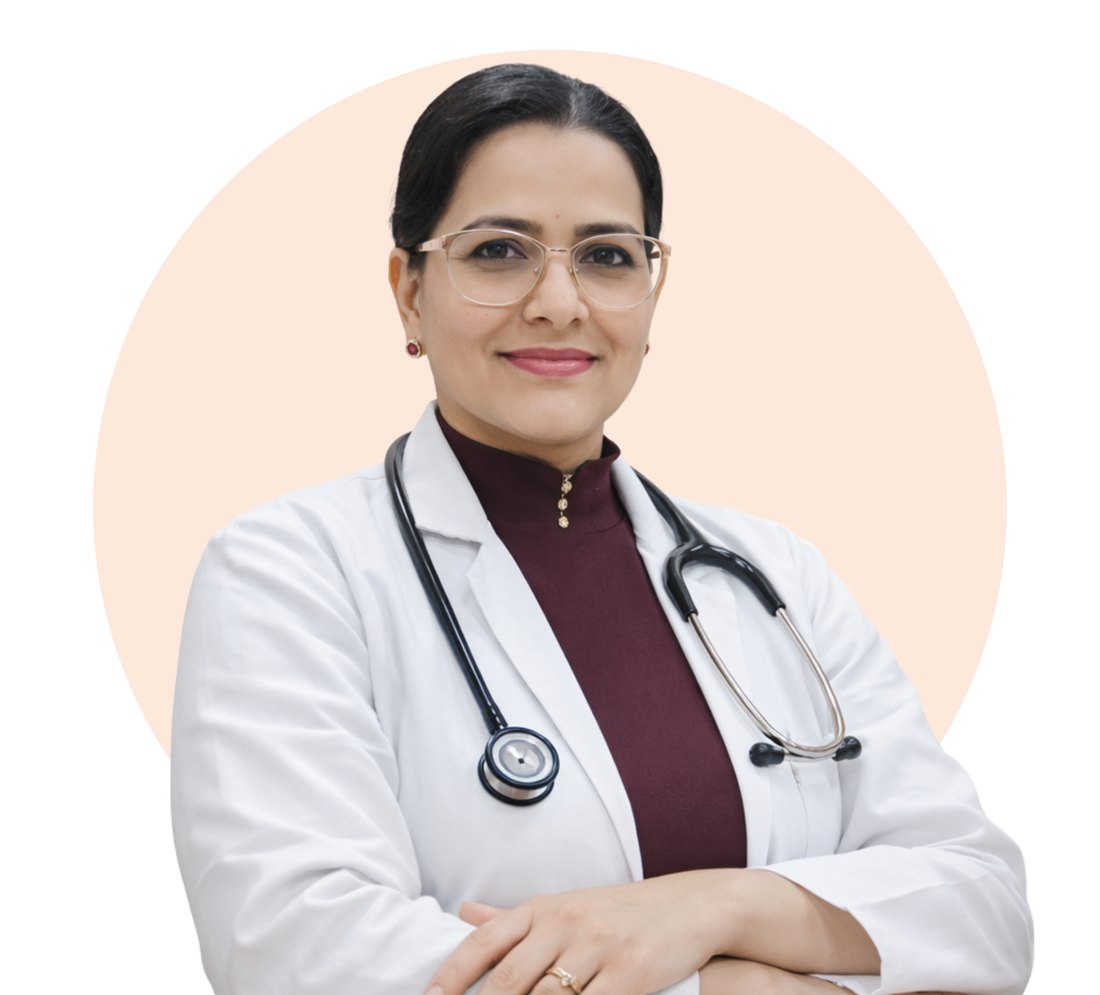
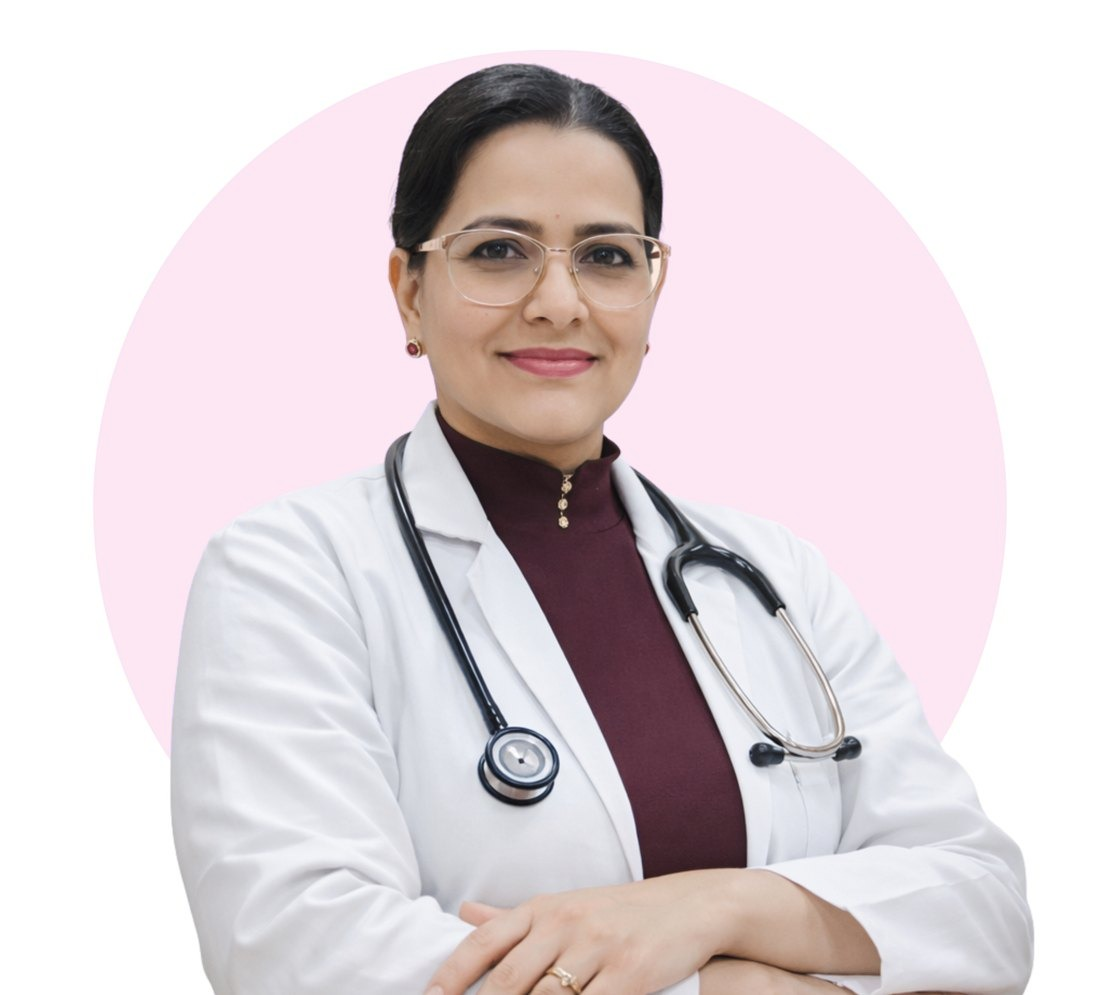
madhu

diff --git a/DrMadhuSaini/app/globals.css b/DrMadhuSaini/app/globals.css
@@ -1,15 +1,15 @@
 :root {
-  --primary: #155e66;
-  --primary-dark: #0d4248;
-  --primary-soft: #eaf5f4;
-  --teal: #c8641c;
-  --teal-dark: #a24f12;
-  --ink: #17211f;
-  --text: #4d5759;
-  --line: #e1e9e8;
-  --bg-alt: #f5f9f8;
+  --primary: #be185d;
+  --primary-dark: #9d174d;
+  --primary-soft: #fdf2f8;
+  --teal: #e11d48;
+  --teal-dark: #be123c;
+  --ink: #2b1420;
+  --text: #5c4a53;
+  --line: #f6dce7;
+  --bg-alt: #fff6fa;
   --radius: 18px;
-  --shadow: 0 10px 30px rgba(21, 94, 102, 0.1);
+  --shadow: 0 10px 30px rgba(190, 24, 93, 0.1);
   --header-h: 76px;
 }
 
@@ -282,7 +282,7 @@ h2 {
 }
 
 .hero {
-  background: #0d4248;
+  background: #831843;
 }
 
 /* Desktop: the photo fills the right side; the headline sits on solid teal on the left. */
@@ -300,7 +300,7 @@ h2 {
   content: "";
   position: absolute;
   inset: 0;
-  background: linear-gradient(90deg, #082c30 0%, #0d4248 40%, rgba(13, 66, 72, 0.55) 52%, rgba(13, 66, 72, 0) 72%);
+  background: linear-gradient(90deg, #500724 0%, #831843 40%, rgba(131, 24, 67, 0.55) 52%, rgba(131, 24, 67, 0) 72%);
 }
 
 .hero .container {
@@ -517,7 +517,7 @@ h2 {
   text-transform: uppercase;
   letter-spacing: 0.08em;
   color: var(--teal-dark);
-  background: #fdf1e6;
+  background: #ffe4e6;
   padding: 4px 10px;
   border-radius: 999px;
 }
@@ -542,7 +542,7 @@ h2 {
   position: fixed;
   inset: 0;
   z-index: 100;
-  background: rgba(4, 22, 24, 0.6);
+  background: rgba(42, 6, 22, 0.6);
   display: grid;
   place-items: center;
   padding: 20px;
@@ -934,7 +934,7 @@ h2 {
   font-weight: 500;
   text-align: left;
   color: #fff;
-  background: linear-gradient(180deg, rgba(8, 44, 48, 0) 0%, rgba(8, 44, 48, 0.85) 100%);
+  background: linear-gradient(180deg, rgba(80, 7, 36, 0) 0%, rgba(80, 7, 36, 0.85) 100%);
 }
 
 .gallery-item img {
@@ -952,7 +952,7 @@ h2 {
   position: fixed;
   inset: 0;
   z-index: 110;
-  background: rgba(3, 14, 16, 0.92);
+  background: rgba(28, 4, 15, 0.92);
   display: flex;
   align-items: center;
   justify-content: center;
@@ -1165,7 +1165,7 @@ h2 {
 }
 
 .form-success {
-  background: #fdf1e6;
+  background: #ffe4e6;
   color: var(--teal-dark);
   padding: 12px 16px;
   border-radius: 10px;
@@ -1188,7 +1188,7 @@ h2 {
 
 /* ---------- Footer ---------- */
 .footer {
-  background: #0a2a2e;
+  background: #3d0a20;
   color: rgba(255, 255, 255, 0.72);
   padding: 70px 0 0;
   font-size: 0.92rem;
@@ -1414,7 +1414,7 @@ h2 {
   }
 
   .hero::after {
-    background: linear-gradient(180deg, rgba(8, 44, 48, 0.78) 0%, rgba(8, 44, 48, 0.9) 100%);
+    background: linear-gradient(180deg, rgba(80, 7, 36, 0.78) 0%, rgba(80, 7, 36, 0.9) 100%);
   }
 
   .footer-grid {

diff --git a/DrMadhuSaini/data/content.ts b/DrMadhuSaini/data/content.ts
@@ -462,7 +462,7 @@ export const faqs: Faq[] = [
 export type GalleryImage = { src: string; alt: string };
 
 export const gallery: GalleryImage[] = [
-  { src: `${IMG}/ever-healthy-hospital.jpg`, alt: "Ever Healthy Hospital, Sector 16-17, Hisar" },
+  { src: `${IMG}/ever-healthy-hospital.jpg`, alt: "Ever Healthy Hospital, Sector 16-17, Hisar (architect's design)" },
   { src: `${IMG}/ever-healthy-team.jpg`, alt: "The Ever Healthy Hospital team" },
   { src: `${IMG}/dr-madhu-saini-opd.jpg`, alt: "Dr. Madhu Saini in her OPD" },
   { src: `${IMG}/dr-madhu-saini.jpg`, alt: "Dr. Madhu Saini, Sr. Consultant Physician & Diabetologist" },

diff --git a/DrMadhuSaini/components/Sections.tsx b/DrMadhuSaini/components/Sections.tsx
@@ -21,7 +21,7 @@ export function Hero() {
       <img className="hero-bg" src={site.heroImage} alt="" fetchPriority="high" />
       <div className="container">
         <div className="hero-content">
-          <span className="eyebrow" style={{ color: "#ffd2a8" }}>
+          <span className="eyebrow" style={{ color: "#fbcfe8" }}>
             {site.hospital} · Sector 16-17, {site.city}
           </span>
           <h1>

diff --git a/DrMadhuSaini/app/layout.tsx b/DrMadhuSaini/app/layout.tsx
@@ -21,7 +21,7 @@ export const metadata: Metadata = {
 };
 
 export const viewport: Viewport = {
-  themeColor: "#155e66",
+  themeColor: "#be185d",
 };
 
 export default function RootLayout({ children }: { children: React.ReactNode }) {

diff --git a/DrMadhuSaini/IMAGE-PROMPTS.md b/DrMadhuSaini/IMAGE-PROMPTS.md
@@ -8,10 +8,10 @@ All text lives in `data/content.ts`. All images live in `public/images/`.
 
 | File | What it is | Source |
 | --- | --- | --- |
-| `dr-madhu-saini-opd.jpg` | Hero: Dr. Saini at her OPD desk (1077 × 895) | Photo supplied by the doctor |
-| `dr-madhu-saini.jpg` | About section portrait | Ever Healthy Hospital website (About Us → team) |
-| `ever-healthy-hospital.jpg` | Hospital building (gallery) | Ever Healthy Hospital website (home page) |
-| `ever-healthy-team.jpg` | Hospital team (Why Choose + gallery) | Ever Healthy Hospital website (home / About Us) |
+| `dr-madhu-saini-opd.jpg` | Hero: Dr. Saini at her OPD desk (1077 × 895) | Photo supplied by the doctor. Not published anywhere online, so it couldn't be checked against a source |
+| `dr-madhu-saini.jpg` | About section portrait | Ever Healthy Hospital website (About Us, the photo above "Dr. Madhu Saini"). Backdrop circle recoloured from peach to pink to match the site theme |
+| `ever-healthy-hospital.jpg` | Hospital building (gallery) | Ever Healthy Hospital website (home page). It's an architect's rendering, so the caption says "(architect's design)". Backdrop circle recoloured to pink |
+| `ever-healthy-team.jpg` | Hospital team (Why Choose + gallery) | Ever Healthy Hospital website (home / About Us). Uploaded there in June 2025, before Dr. Saini's profile was added (Feb 2026), so she may not be in it |
 | `tip-1…6-*.svg` | Health-tip cards (illustrations) | Made for this site |
 | `logo.svg`, `app/icon.svg` | "MS" monogram logo and favicon | Made for this site |
 
@@ -21,14 +21,17 @@ The hospital photos are taken from everhealthyhospital.in. Get the hospital's pe
 
 1. **Higher-resolution hero photo** (at least 1600 px wide, landscape) of Dr. Saini in her OPD. Keep her on the **right half** of the frame because the headline covers the left half on desktop.
 2. **Real photos of the hospital interior**: reception, OPD room, laboratory, ICU/HDU. Add them to `gallery` in `data/content.ts` (4:3 landscape works best).
-3. **Real photo of the building.** The current image looks like an architect's rendering.
+3. **Real photo of the building.** The current image is an architect's rendering. When you swap in a real photo, remove "(architect's design)" from its caption in `data/content.ts`.
 
 Ground rules: use only real photos of Dr. Saini and the hospital. Don't use AI-generated faces or interiors, and don't use before/after patient photos.
 
 ## Content checklist (confirm with Dr. Saini before going live)
 
 - [ ] Is **+91 92530 61331** also on **WhatsApp**? (The site's WhatsApp button and enquiry form use it.)
+- [ ] Is the hero photo (`dr-madhu-saini-opd.jpg`, orange saree at the OPD desk) of her, and is she happy for it to be used?
+- [ ] Is she in the team photo (`ever-healthy-team.jpg`)? If not, consider a team photo that includes her for the Why Choose section.
 - [ ] Were MBBS **and** MD both done at PGIMS Rohtak? The site currently says "MBBS, MD (Medicine) – PGIMS Rohtak".
+- [ ] The hospital's About Us page lists her only as "MD Medicine". Confirm the other claims on the site: years of experience, "Sr. Consultant Physician & Diabetologist", and past hospitals (Sapra, Adhar, Fortis).
 - [ ] Is it OK to show the hospital's 24×7 emergency number **+91 90348 33371** (from everhealthyhospital.in)?
 - [ ] OPD is listed as **Mon–Sat, 10:00 AM–3:00 PM and 5:30–7:00 PM**. Is there any Sunday OPD?
 - [ ] Address: "Plot No. 1, Nursing Home Area, Sector 16-17, Near Shyam Baba Mandir, Hisar 125001". The plot number comes from the hospital website.

diff --git a/DrMadhuSaini/AGENTS.md b/DrMadhuSaini/AGENTS.md
@@ -1,0 +1,9 @@
+<!-- BEGIN:nextjs-agent-rules -->
+
+## This is NOT the Next.js you know
+
+This version has breaking changes — APIs, conventions, and file structure may all differ from your training data. Read the relevant guide in `node_modules/next/dist/docs/` (resolved from this file's directory; in monorepos the `next` package may not be visible from the repo root) before writing any code. Heed deprecation notices.
+
+This block is written and re-added by `next dev` — verify at `node_modules/next/dist/server/lib/generate-agent-files.js`. Removing it from a diff only re-creates the uncommitted change; committing it with your work keeps the tree clean.
+
+<!-- END:nextjs-agent-rules -->
